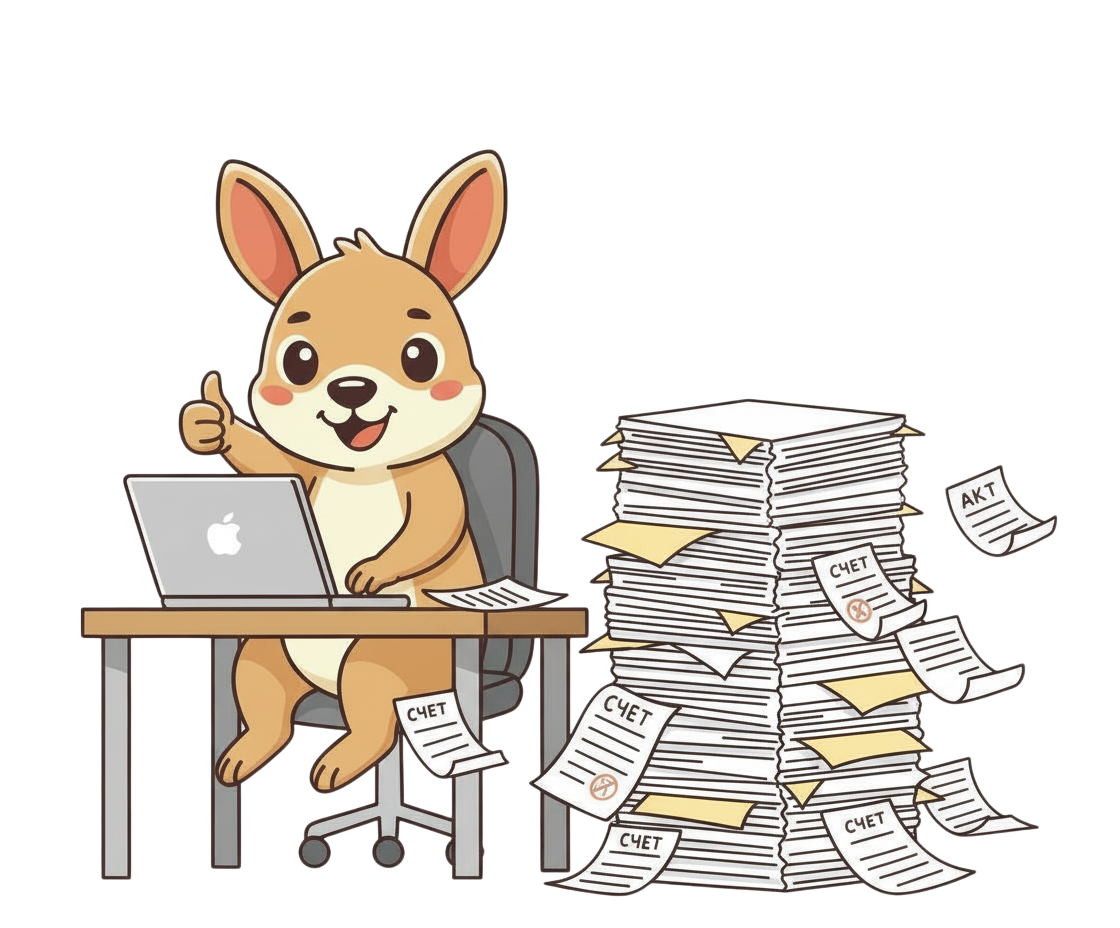
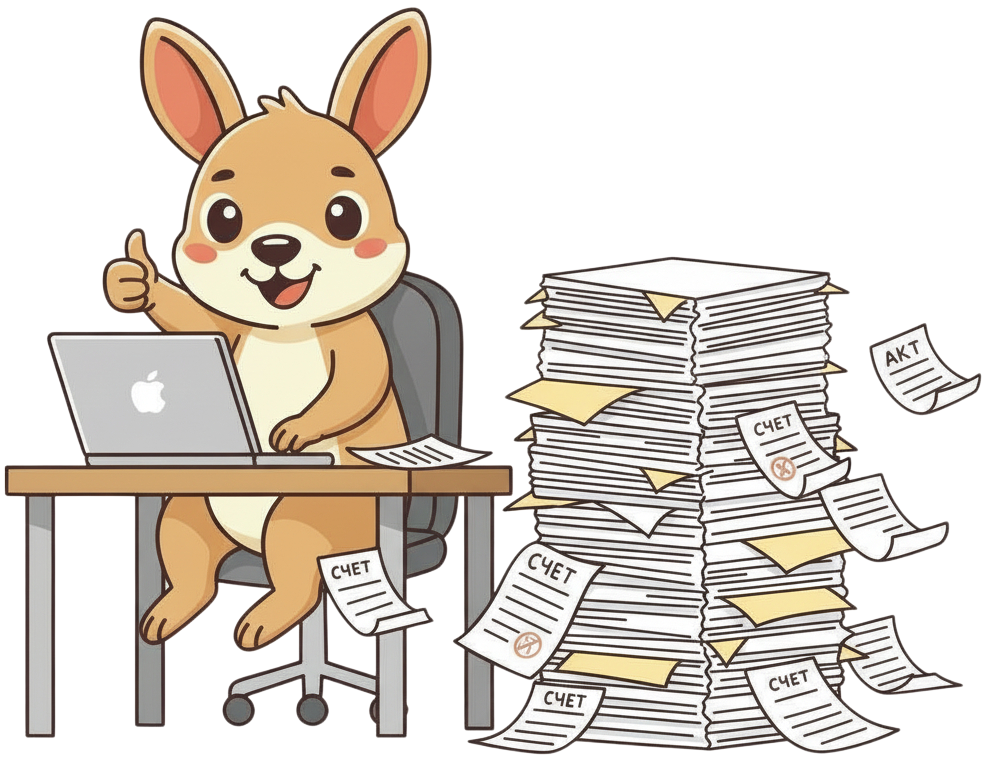
Main page layout - 1_add

diff --git a/frontend/src/sections/Examples.jsx b/frontend/src/sections/Examples.jsx
@@ -15,23 +15,27 @@ const DOCS = [
   { id: 5, title: 'Счёт‑фактура', img: d6 },
 ]
 
-// По умолчанию вращение в одну сторону (вперёд)
-const SPEED_DEG_PER_SEC = 18
+/* Скорости */
+const AUTO_SPEED_DEG_PER_SEC = 18      // Автовращение (вне просмотра)
+const TURN_SPEED = 90                  // Обычный доворот (стрелки/переключения) deg/s
+const TURN_SPEED_FAST = 160            // Быстрый доворот (по клику на карточку) deg/s
+
+/* Геометрия карусели */
 const RADIUS = 300
 const CARD_W = 240
 const CARD_H = 160
 
-// нормализация угла в диапазон (-180, 180]
+// нормализация угла в диапазон (-180, 180] — возвращает «кратчайшую» разницу
 function shortestDelta(fromDeg, toDeg) {
   const delta = ((((toDeg - fromDeg) % 360) + 540) % 360) - 180
-  return delta // может быть отрицательным — значит «назад» короче
+  return delta // < 0 — назад ближе, > 0 — вперёд ближе
 }
 
 export default function Examples() {
   const [spin, setSpin] = useState(0)            // текущий угол сцены
-  const [auto, setAuto] = useState(true)         // бесконечное вращение
+  const [auto, setAuto] = useState(true)         // режим бесконечного вращения
   const [viewer, setViewer] = useState(null)     // индекс открытого документа
-  const [viewerKey, setViewerKey] = useState(0)  // перезапуск анимации поп-ин
+  const [viewerKey, setViewerKey] = useState(0)  // чтобы перезапустить анимацию «поп-ин»
 
   const autoRef = useRef(auto)
   const spinRef = useRef(spin)
@@ -41,14 +45,14 @@ export default function Examples() {
   useEffect(() => { autoRef.current = auto }, [auto])
   useEffect(() => { spinRef.current = spin }, [spin])
 
-  // Автовращение (в одну сторону) — только когда просмотр закрыт
+  // Автовращение — только когда просмотр закрыт
   useEffect(() => {
     const tick = (t) => {
       if (!lastRef.current) lastRef.current = t
       const dt = (t - lastRef.current) / 1000
       lastRef.current = t
       if (autoRef.current && viewer === null) {
-        setSpin((s) => s + SPEED_DEG_PER_SEC * dt)
+        setSpin((s) => s + AUTO_SPEED_DEG_PER_SEC * dt)
       }
       rafRef.current = requestAnimationFrame(tick)
     }
@@ -60,12 +64,13 @@ export default function Examples() {
 
   const pause = () => { autoRef.current = false; setAuto(false) }
 
-  // Плавная анимация к target углу
+  // Плавная анимация к целевому углу target
   const animateTo = (target, onDone, fast = false) => {
     const startAngle = spinRef.current
     const distAbs = Math.abs(target - startAngle)
-    const speed = Math.abs(SPEED_DEG_PER_SEC) * (fast ? 2.4 : 1.2)
-    const ease = (p) => 1 - Math.pow(1 - p, 3)
+    const speed = fast ? TURN_SPEED_FAST : TURN_SPEED     // используем отдельные скорости доворотов
+    const ease = (p) => 1 - Math.pow(1 - p, 2.6)          
+
     let start = 0
     const frame = (t) => {
       if (!start) start = t
@@ -78,7 +83,7 @@ export default function Examples() {
     requestAnimationFrame(frame)
   }
 
-  // Поворот к карточке i по кратчайшему пути (вперёд/назад — выбирается автоматически)
+  // Доворот к индексу i по кратчайшему пути
   const rotateToIndexNearest = (i, cb, fast = false) => {
     pause()
     const cur = spinRef.current
@@ -88,7 +93,7 @@ export default function Examples() {
     animateTo(target, cb, fast)
   }
 
-  // Открыть просмотр: докрутить к карточке ближайшим путём и «поп-ин»
+  // Клик по карточке — быстрый доворот по кратчайшему пути и открытие просмотра
   const openViewer = (i) => {
     rotateToIndexNearest(i, () => {
       setViewer(i)
@@ -96,15 +101,14 @@ export default function Examples() {
     }, true)
   }
 
-  // Закрыть просмотр: возобновить бесконечное вращение
+  // Закрытие просмотра — снова включаем бесконечное вращение
   const closeViewer = () => {
     setViewer(null)
     autoRef.current = true
     setAuto(true)
   }
 
-  // Стрелки: переключают карточки, докручивая фон карусели по кратчайшему пути.
-  // Режим «паузa» сохраняется (автовращение НЕ включаем).
+  // Навигация в просмотре — остаёмся в «паузе», докручиваем фон по кратчайшему пути
   const prev = () => {
     setViewer((i) => {
       const n = (i - 1 + DOCS.length) % DOCS.length
@@ -132,7 +136,9 @@ export default function Examples() {
         <div className="ellipse">
           <div className="ellipse-inner">
             <h3 className="ellipse-title">Просто подпиши документ на Сканни.рф</h3>
-            <p className="ellipse-sub">Документы из сервиса выглядят как настоящие сканы с печатью и подписью. Загляни в примеры и убедись сам.</p>
+            <p className="ellipse-sub">
+              Документы из сервиса выглядят как настоящие сканы с печатью и подписью. Загляни в примеры и убедись сам.
+            </p>
 
             <div className="carousel3d">
               <div className="stage" style={{ width: CARD_W, height: CARD_H }}>
@@ -143,7 +149,8 @@ export default function Examples() {
                       key={d.id}
                       className="card3d"
                       style={{
-                        width: CARD_W, height: CARD_H,
+                        width: CARD_W,
+                        height: CARD_H,
                         transform: `rotateY(${angle}deg) translateZ(${RADIUS}px) rotateY(${-angle}deg)`
                       }}
                       onClick={() => openViewer(i)}

diff --git a/frontend/src/styles/main.css b/frontend/src/styles/main.css
@@ -37,12 +37,20 @@ a{color:inherit}
 .btn:hover{filter:brightness(.95)}
 .btn-lite{background:#fff;color:var(--accent);border:1px solid var(--accent)}
 
-/* hero */
+/* hero (уменьшена высота, картинка выровнена по верхнему краю текста) */
 .hero{background:var(--sage)}
-.hero-inner{display:grid;grid-template-columns:1.1fr .9fr;gap:24px;padding:64px 0}
-.hero h1{font-family:"Ermilov",inherit;font-size:44px;line-height:1.1;margin:0 0 16px}
-.hero p{font-size:18px;margin:0 0 24px;max-width:560px}
-.hero .art{display:flex;align-items:center;justify-content:center}
+.hero-inner{
+  display:grid;grid-template-columns:1.1fr .9fr;gap:24px;
+  padding:40px 0;                 /* было 64px */
+  align-items:flex-start;          /* верхнее выравнивание двух колонок */
+}
+.hero h1{font-family:"Ermilov",inherit;font-size:44px;line-height:1.1;margin:0 0 14px}
+.hero p{font-size:18px;margin:0 0 20px;max-width:560px}
+.hero .art{display:flex;align-items:flex-start;justify-content:center}
+.hero .art img{
+  max-height:320px;               /* ограничили высоту изображения */
+  height:auto;object-fit:contain;
+}
 
 /* ПРОСТОЙ ПРОЦЕСС — шахматные ряды с фикс. высотой */
 .how-rows{display:flex;flex-direction:column;gap:64px;margin-top:16px}
@@ -67,18 +75,23 @@ a{color:inherit}
   font-weight:800;margin-bottom:10px;border:1px solid #00000014;
 }
 
-/* КАКОЙ РЕЗУЛЬТАТ — большой овал и 3D-карусель */
+/* КАКОЙ РЕЗУЛЬТАТ — чуть ниже по высоте, меньше отступ между текстом и каруселью */
 .examples .ellipse{
   background:var(--accent); color:#fff; border-radius:999px;
-  min-height:780px; display:flex; align-items:center; justify-content:center;
-  padding:24px 0; overflow:hidden;
+  min-height:680px;                 /* было 780px */
+  display:flex; align-items:center; justify-content:center;
+  padding:12px 0;                   /* было 24px */
+  overflow:hidden;
 }
-.ellipse-inner{width:min(1100px,96%); text-align:center; padding:12px 0}
+.ellipse-inner{width:min(1100px,96%); text-align:center; padding:8px 0} /* было 12px */
 .ellipse-title{font-family:"Ermilov";font-size:32px;margin:0}
-.ellipse-sub{max-width:720px;margin:8px auto 24px}
+.ellipse-sub{max-width:720px;margin:6px auto 12px}        /* было 8px auto 24px */
 
-.carousel3d{height:520px; display:flex; align-items:center; justify-content:center;
-  perspective:1000px; transform-style:preserve-3d;}
+.carousel3d{
+  height:480px;                     /* было 520px */
+  display:flex; align-items:center; justify-content:center;
+  perspective:1000px; transform-style:preserve-3d;
+}
 .stage{
   position:relative; margin:auto; transform-style:preserve-3d; transform:rotateX(-10deg);
 }
@@ -110,7 +123,6 @@ a{color:inherit}
 }
 .viewer-nav.prev{left:24px}
 .viewer-nav.next{right:24px}
-/* вылет карточки */
 @keyframes popIn {
   0% { transform: scale(.85) translateY(12px); opacity: .0 }
   60% { transform: scale(1.02) }
@@ -118,7 +130,7 @@ a{color:inherit}
 }
 .pop-in { animation: popIn .32s ease-out both }
 
-/* ПРОЩЕ ПРОСТОГО — тёмный фон, карточки по горизонтали, картинка сверху */
+/* ПРОЩЕ ПРОСТОГО — тёмный фон */
 .features{background:#262626;color:#f1f1f1}
 .features h2{color:#fff}
 .features-row{display:grid;grid-template-columns:repeat(3,1fr);gap:24px;margin-top:10px}
@@ -127,7 +139,7 @@ a{color:inherit}
 .feature .lead{color:#cfcfcf}
 .feature-pic{width:100%;height:180px;object-fit:contain;margin-bottom:8px}
 
-/* ВСЕГДА ПОД РУКОЙ — фикс. высота и более плавный/наглядный переход */
+/* ВСЕГДА ПОД РУКОЙ — плавные переключения, фикс. высота левой колонки */
 .pocket{background:var(--sage)}
 .pocket-grid{display:grid;grid-template-columns:1.1fr .9fr;gap:24px;align-items:center}
 .pocket-list{min-height:520px}
@@ -196,6 +208,6 @@ a{color:inherit}
   .pocket-grid, .price-grid{grid-template-columns:1fr}
   .step-row{grid-template-columns:1fr; --step-h: 360px}
   .features-row{grid-template-columns:1fr}
-  .examples .ellipse{min-height:700px;border-radius:48px}
+  .examples .ellipse{min-height:640px;border-radius:48px}  /* было 700px */
   .viewer-card{height:70vh}
 }
